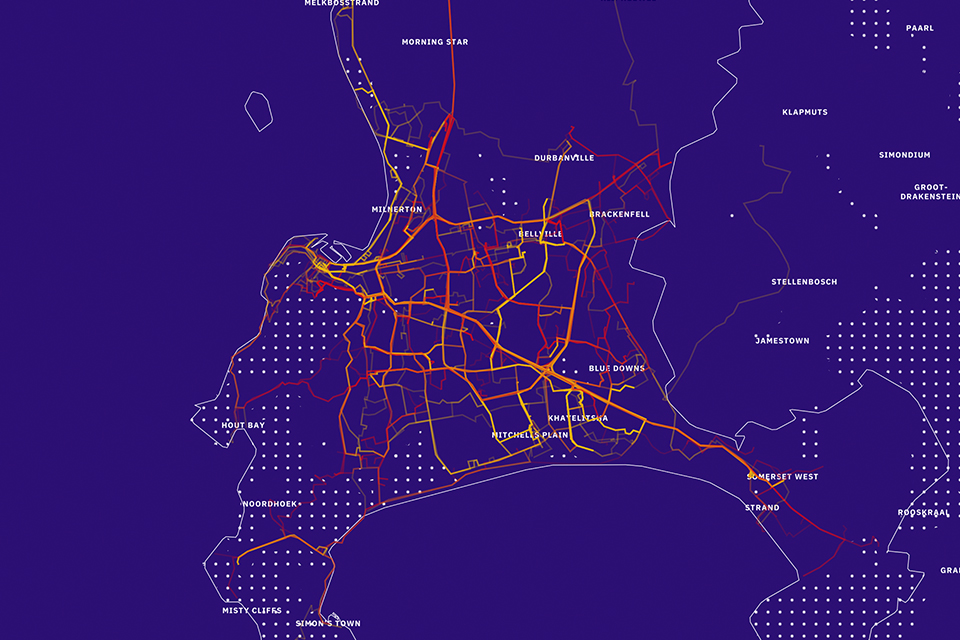
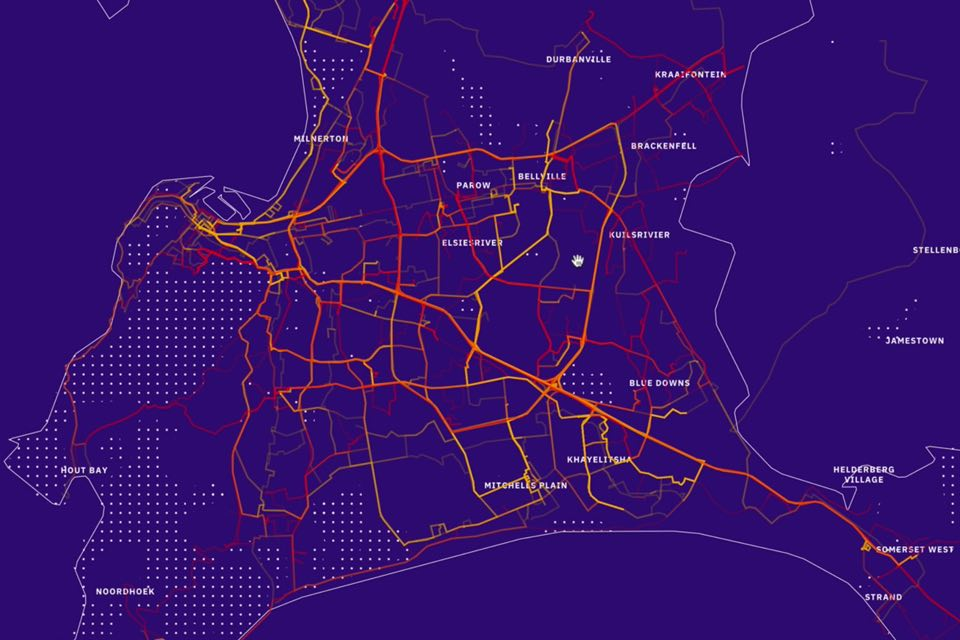
animation on hover

diff --git a/public/data/data.js b/public/data/data.js
@@ -49,8 +49,8 @@ const content = {
       "client": "Technologiestiftung Berlin",
       "type": "data visualization",
       "year": 2018,
-      "thumbnail": "public/images/cityinflux/cityinflux-thumb-960x640.gif",
-      "overlay": "public/images/genderinequality/genderinequality-thumb-960x640-2.jpg",
+      "thumbnail": "public/images/cityinflux/cityinflux-thumb-960x640.jpg",
+      "overlay": "public/images/cityinflux/cityinflux-thumb-960x640.gif",
       "url": "https://city-in-flux.netlify.com/",
       "tasks": ["concept", "visual interface design", "data visualization"],
       "subtitle": "800 Routes of Diversity and Contrast",
@@ -85,8 +85,8 @@ const content = {
       "client": "Experiment",
       "color": ['#882C94', '#F5F3F7'],
       "year": 2019,
-      "thumbnail": "public/images/genderinequality/genderinequality-thumb-960x640.gif",
-      "overlay": "public/images/genderinequality/genderinequality-thumb-960x640-2.jpg",
+      "overlay": "public/images/genderinequality/genderinequality-thumb-960x640.gif",
+      "thumbnail": "public/images/genderinequality/genderinequality-thumb-960x640.jpg",
       "url": "https://fabiandinklage.com/projects/gender-equality/",
       "tasks": ["data visualization"],
       "subtitle": "Balance of gender in national parliaments visualized.",
@@ -116,8 +116,8 @@ const content = {
       "client": "Technologiestiftung Berlin",
       "color": ['#41B496', '#F6FCFA'],
       "year": 2020,
-      "thumbnail": "public/images/edutech/edutech-thumb-960x640.gif",
-      "overlay": "public/images/edutech/edutech-thumb-960x640-2.jpg",
+      "thumbnail": "public/images/edutech/edutech-thumb-960x640.jpg",
+      "overlay": "public/images/edutech/edutech-thumb-960x640.gif",
       "url": "https://edutech.technologiestiftung-berlin.de",
       "tasks": ["data visualization"],
       "subtitle": "Bike traffic in Berlin visualized",
@@ -137,8 +137,8 @@ const content = {
       "client": "Technologiestiftung Berlin",
       "color": ['#2824B2', '#F5F4FC'],
       "year": 2018,
-      "thumbnail": "public/images/rhythmoftheroad/rhythmoftheroad-thumb-960x640.gif",
-      "overlay": "public/images/genderinequality/genderinequality-thumb-960x640-2.jpg",
+      "thumbnail": "public/images/rhythmoftheroad/rhythmoftheroad-thumb-960x640.jpg",
+      "overlay": "public/images/rhythmoftheroad/rhythmoftheroad-thumb-960x640.gif",
       "url": "https://lab.technologiestiftung-berlin.de/projects/bikerides/de/",
       "tasks": ["data visualization"],
       "subtitle": "Bike traffic in Berlin visualized",
@@ -163,8 +163,8 @@ const content = {
       "client": "Technologiestiftung Berlin",
       "color": ['#EE7B4B', '#fff'],
       "year": 2019,
-      "thumbnail": "public/images/bikesharing/bikesharing-thumb-960x640.gif",
-      "overlay": "public/images/genderinequality/genderinequality-thumb-960x640-2.jpg",
+      "thumbnail": "public/images/bikesharing/bikesharing-thumb-960x640.jpg",
+      "overlay": "public/images/bikesharing/bikesharing-thumb-960x640.gif",
       "url": "https://bikesharing.citylab-berlin.org",
       "tasks": ["data visualization"],
       "subtitle": "Bike traffic in Berlin visualized",
@@ -202,10 +202,10 @@ const content = {
       "path": "curricle",
       "type": "data visualization",
       "client": "Berkmann Klein Center (at) Harvard",
-      "color": ['#EE7B4B', '#fff'],
+      "color": ['#7042AB', '#fff'],
       "year": 2019,
-      "thumbnail": "public/images/curricle/curricle-thumb-960x640.gif",
-      "overlay": "public/images/genderinequality/genderinequality-thumb-960x640-2.jpg",
+      "thumbnail": "public/images/curricle/curricle-thumb-960x640.jpg",
+      "overlay": "public/images/curricle/curricle-thumb-960x640.gif",
       "url": "https://curricle.net",
       "tasks": ["data visualization"],
       "subtitle": "Bike traffic in Berlin visualized",
@@ -218,10 +218,10 @@ const content = {
       "path": "hackernews",
       "type": "data visualization",
       "client": "Berkmann Klein Center (at) Harvard",
-      "color": ['#EE7B4B', '#fff'],
+      "color": ['#000', '#fff'],
       "year": 2018,
-      "thumbnail": "public/images/hackernews/hackernews-thumb-960x640.gif",
-      "overlay": "public/images/genderinequality/genderinequality-thumb-960x640-2.jpg",
+      "thumbnail": "public/images/hackernews/hackernews-thumb-960x640.jpg",
+      "overlay": "public/images/hackernews/hackernews-thumb-960x640.gif",
       "url": "https://curricle.net",
       "tasks": ["data visualization"],
       "subtitle": "Bike traffic in Berlin visualized",
@@ -234,10 +234,10 @@ const content = {
       "path": "candidates",
       "type": "data visualization",
       "client": "Berkmann Klein Center (at) Harvard",
-      "color": ['#EE7B4B', '#fff'],
+      "color": ['#000', '#fff'],
       "year": 2017,
-      "thumbnail": "public/images/candidates/candidates-thumb-960x640.gif",
-      "overlay": "public/images/genderinequality/genderinequality-thumb-960x640-2.jpg",
+      "thumbnail": "public/images/candidates/candidates-thumb-960x640.jpg",
+      "overlay": "public/images/candidates/candidates-thumb-960x640.gif",
       "url": "https://curricle.net",
       "tasks": ["data visualization"],
       "subtitle": "Bike traffic in Berlin visualized",
@@ -250,10 +250,10 @@ const content = {
       "path": "invisties",
       "type": "data visualization",
       "client": "Berkmann Klein Center (at) Harvard",
-      "color": ['#EE7B4B', '#fff'],
+      "color": ['#013ED9', '#fff'],
       "year": 2018,
-      "thumbnail": "public/images/invisties/invisties-thumb-960x640.gif",
-      "overlay": "public/images/genderinequality/genderinequality-thumb-960x640-2.jpg",
+      "thumbnail": "public/images/invisties/invisties-thumb-960x640.jpg",
+      "overlay": "public/images/invisties/invisties-thumb-960x640.gif",
       "url": "https://curricle.net",
       "tasks": ["data visualization"],
       "subtitle": "Bike traffic in Berlin visualized",

diff --git a/src/components/Projects/Grid.js b/src/components/Projects/Grid.js
@@ -1,4 +1,4 @@
-import React from 'react';
+import React, { useEffect } from 'react';
 import ReactMarkdown from 'react-markdown';
 import styled from 'styled-components';
 import { useStoreState, useStoreActions } from 'easy-peasy';
@@ -15,7 +15,7 @@ const StyledGridWrapper = styled.div`
 
 const StyledText = styled(Text)`
   text-align: center;
-  margin-top: 7px;
+  margin-top: 15px;
   font-size: ${p => p.theme.fontSizes[2]};
   letter-spacing: ${p => p.theme.letterSpacing[2]};
   color: ${p => p.c[0]};
@@ -45,25 +45,50 @@ const StyledLink = styled(Link)`
     }
   }
 
-  img {
-    filter: saturate(30%);
-    transition: filter ${p => p.theme.times[0]};
-
-    @media (max-width: ${p => p.theme.sizes.mobile}) {
+  div {
+    img {
       filter: saturate(100%);
+      transition: filter ${p => p.theme.times[0]};
+
+      &:hover {
+        filter: saturate(100%);
+        transition: filter ${p => p.theme.times[0]};
+      }
+
+      @media (max-width: ${p => p.theme.sizes.mobile}) {
+        filter: saturate(100%);
+      }
     }
   }
 
-  img:hover {
-    filter: saturate(100%);
-    transition: filter ${p => p.theme.times[0]};
+  div {
+    img
   }
+
 `;
+
+const ThumbnailImage = styled(Image)`
+  position: absolute;
+  transition: opacity ${ p => p.theme.times[1] } ease-in-out;
+  &:hover {
+    opacity: 0;
+    transition: opacity ${ p => p.theme.times[1] } ease-in-out;
+  }
+`
 
 const Grid = (props) => {
   const { data } = props;
   const color = useStoreState(state => state.color.color);
   const setColor = useStoreActions(actions => actions.color.setColor);
+  let ref = null;
+  let box = null;
+  let height = 'null';
+
+  useEffect(() => {
+     height = `${ref.offsetWidth / 3 * 2}px`;
+     const boxes = document.querySelectorAll('.thumb-box');
+     boxes.forEach(box => box.style.height = height);
+  })
 
   return (
     <CSSTransition
@@ -82,17 +107,23 @@ const Grid = (props) => {
         {data.map((p,i) => {
           return (
             <StyledLink onMouseOver={() =>  setColor(p.color)} onMouseOut={() =>  setColor(['#121337', '#fff'])} sx={{ textDecoration: 'none' }} variant="nav" href={`projects/${p.path}`}>
-              <Box sx={{ height: 'auto', overflow: 'hidden' }} key={`tile-${i}`} color='primary'>
-                  <LazyLoad height={200} offset={200}>
+              <Box className="thumb-box" ref={(target) => { box = target; }} sx={{ overflow: 'hidden', position: 'relative' }} key={`tile-${i}`} color='primary'>
                     <Image
+                      ref={(target) => { ref = target; }}
+                      src={p.overlay}
+                      sx={{
+                        width: [ '100%' ],
+                        position: 'absolute'
+                      }}
+                    />
+                    <ThumbnailImage
                       src={p.thumbnail}
                       sx={{
                         width: [ '100%' ],
                       }}
                     />
-                  </LazyLoad>
-                <StyledText c={color}>{p.title}</StyledText>
               </Box>
+              <StyledText c={color}>{p.title}</StyledText>
             </StyledLink>
           )
         })}
